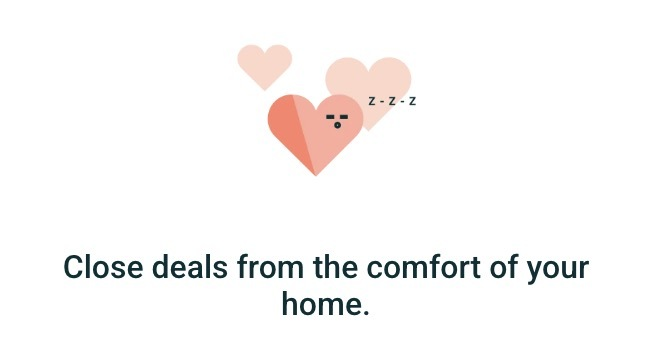
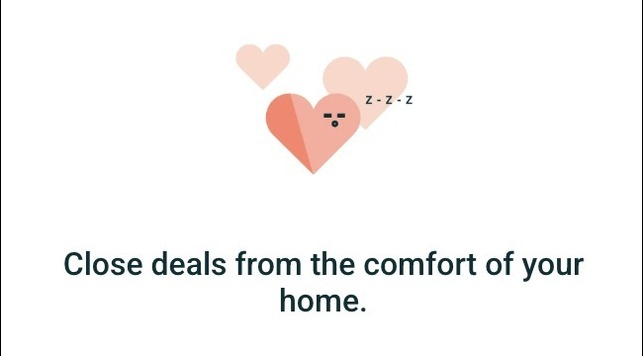
attaching authmodal to login button on navbar and adding the dark mode

diff --git a/frontend/src/components/Navbar/Navbar.tsx b/frontend/src/components/Navbar/Navbar.tsx
@@ -1,4 +1,4 @@
-import React from "react";
+import React, { useState } from "react";
 import styles from "./Navbar.module.css";
 import Logo from "../Logo/Logo";
 import ToggleSwitch from "../Navbar/ToggleSwitch/ToggleSwitch";
@@ -8,22 +8,38 @@ import WishlistButton from "../Navbar/Wishlist/Wishlist";
 import LocationSearchBar from "../Navbar/LocationSearchBar/LocationSearchBar";
 import ItemSearchBar from "../Navbar/ItemSearchBar/ItemSearchBar";
 import { useTheme } from "../../hooks/useTheme"; 
+import AuthModal from "../AuthModal/AuthModal";
 
 const Navbar: React.FC = () => {
-  const {theme} = useTheme();
+  const { theme } = useTheme();
+  const [isAuthModalOpen, setIsAuthModalOpen] = useState(false);
+
+  const handleLoginClick = () => {
+    setIsAuthModalOpen(true);
+  };
+
+  const handleModalClose = () => {
+    setIsAuthModalOpen(false);
+  };
 
   return (
-    <nav className={`${styles.navbar} ${styles[theme]}`}>
-      <div className={styles.navbarContent}>
-        <Logo />
-        <LocationSearchBar />
-        <ItemSearchBar />
-        <Login />
-        <WishlistButton />
-        <ToggleSwitch />
-        <Sellbutton />
-      </div>
-    </nav>
+    <>
+      <nav className={`${styles.navbar} ${styles[theme]}`}>
+        <div className={styles.navbarContent}>
+          <Logo />
+          <LocationSearchBar />
+          <ItemSearchBar />
+          <Login onClick={handleLoginClick} />
+          <WishlistButton />
+          <ToggleSwitch />
+          <Sellbutton />
+        </div>
+      </nav>
+
+      {isAuthModalOpen && (
+        <AuthModal onClose={handleModalClose} />
+      )}
+    </>
   );
 };
 

diff --git a/frontend/src/components/AuthModal/AuthModal.tsx b/frontend/src/components/AuthModal/AuthModal.tsx
@@ -1,9 +1,9 @@
 import React, { useState } from 'react';
 import Carousel from './Carousel';
 import styles from './AuthModal.module.css';
-// import { useTheme } from '../../hooks/useTheme';
+import { useTheme } from '../../hooks/useTheme';
 const AuthModal: React.FC<{ onClose: () => void }> = ({ onClose }) => {
-  // const {theme}= useTheme();
+  const {theme}= useTheme();
   const [isLogin, setIsLogin] = useState(true);
   const [email, setEmail] = useState('');
   const [password, setPassword] = useState('');
@@ -50,14 +50,14 @@ const AuthModal: React.FC<{ onClose: () => void }> = ({ onClose }) => {
 
   return (
     <div className={styles.modalOverlay}>
-      <div className={styles.modalContent}>
+      <div className={`${styles.modalContent} ${styles[theme]}`}>
         <button className={styles.closeButton} onClick={onClose}>
           &times;
         </button>
 
         <Carousel images={carouselImages} />
 
-        <h2 className={styles.title}>{isLogin ? 'Login' : 'Register'}</h2>
+        <h2 className={`${styles.title} ${styles[theme]}`}>{isLogin ? 'Login' : 'Register'}</h2>
 
         <form onSubmit={handleSubmit} className={styles.authForm}>
           <div className={styles.formGroup}>

diff --git a/frontend/src/components/Navbar/Login/Login.tsx b/frontend/src/components/Navbar/Login/Login.tsx
@@ -1,14 +1,22 @@
 import { useTheme } from "../../../hooks/useTheme"; 
 import styles from "./Login.module.css"; 
 
-function Login() {
+interface LoginProps {
+  onClick: () => void;
+}
+
+function Login({ onClick }: LoginProps) {
   const { theme } = useTheme();
   
   return (
     <div className={`${styles.login} ${styles[theme]}`}>
-    <button  className={styles[theme]} >
-      Log in
-    </button>
+      <button 
+        className={`${styles.loginButton} ${styles[theme]}`}
+        onClick={onClick}
+        aria-label="Login"
+      >
+        Log in
+      </button>
     </div>
   );
 }

diff --git a/frontend/src/components/AuthModal/AuthModal.module.css b/frontend/src/components/AuthModal/AuthModal.module.css
@@ -228,7 +228,7 @@
 }
 
 .dark {
-  background-color: rgba(0, 0, 0, 0.924);
+  background-color: rgba(18, 5, 64, 0.924);
   color: #f1f1f1;
   box-shadow: 0 4px 10px rgba(255, 255, 255, 0.08);
 }

diff --git a/frontend/src/components/AuthModal/Carousel.module.css b/frontend/src/components/AuthModal/Carousel.module.css
@@ -7,7 +7,7 @@
 
 .slide {
   width: 100%;
-  height: 180px; /* Fixed height for carousel */
+  height: 90%; /* Fixed height for carousel */
   position: relative;
 }
 
